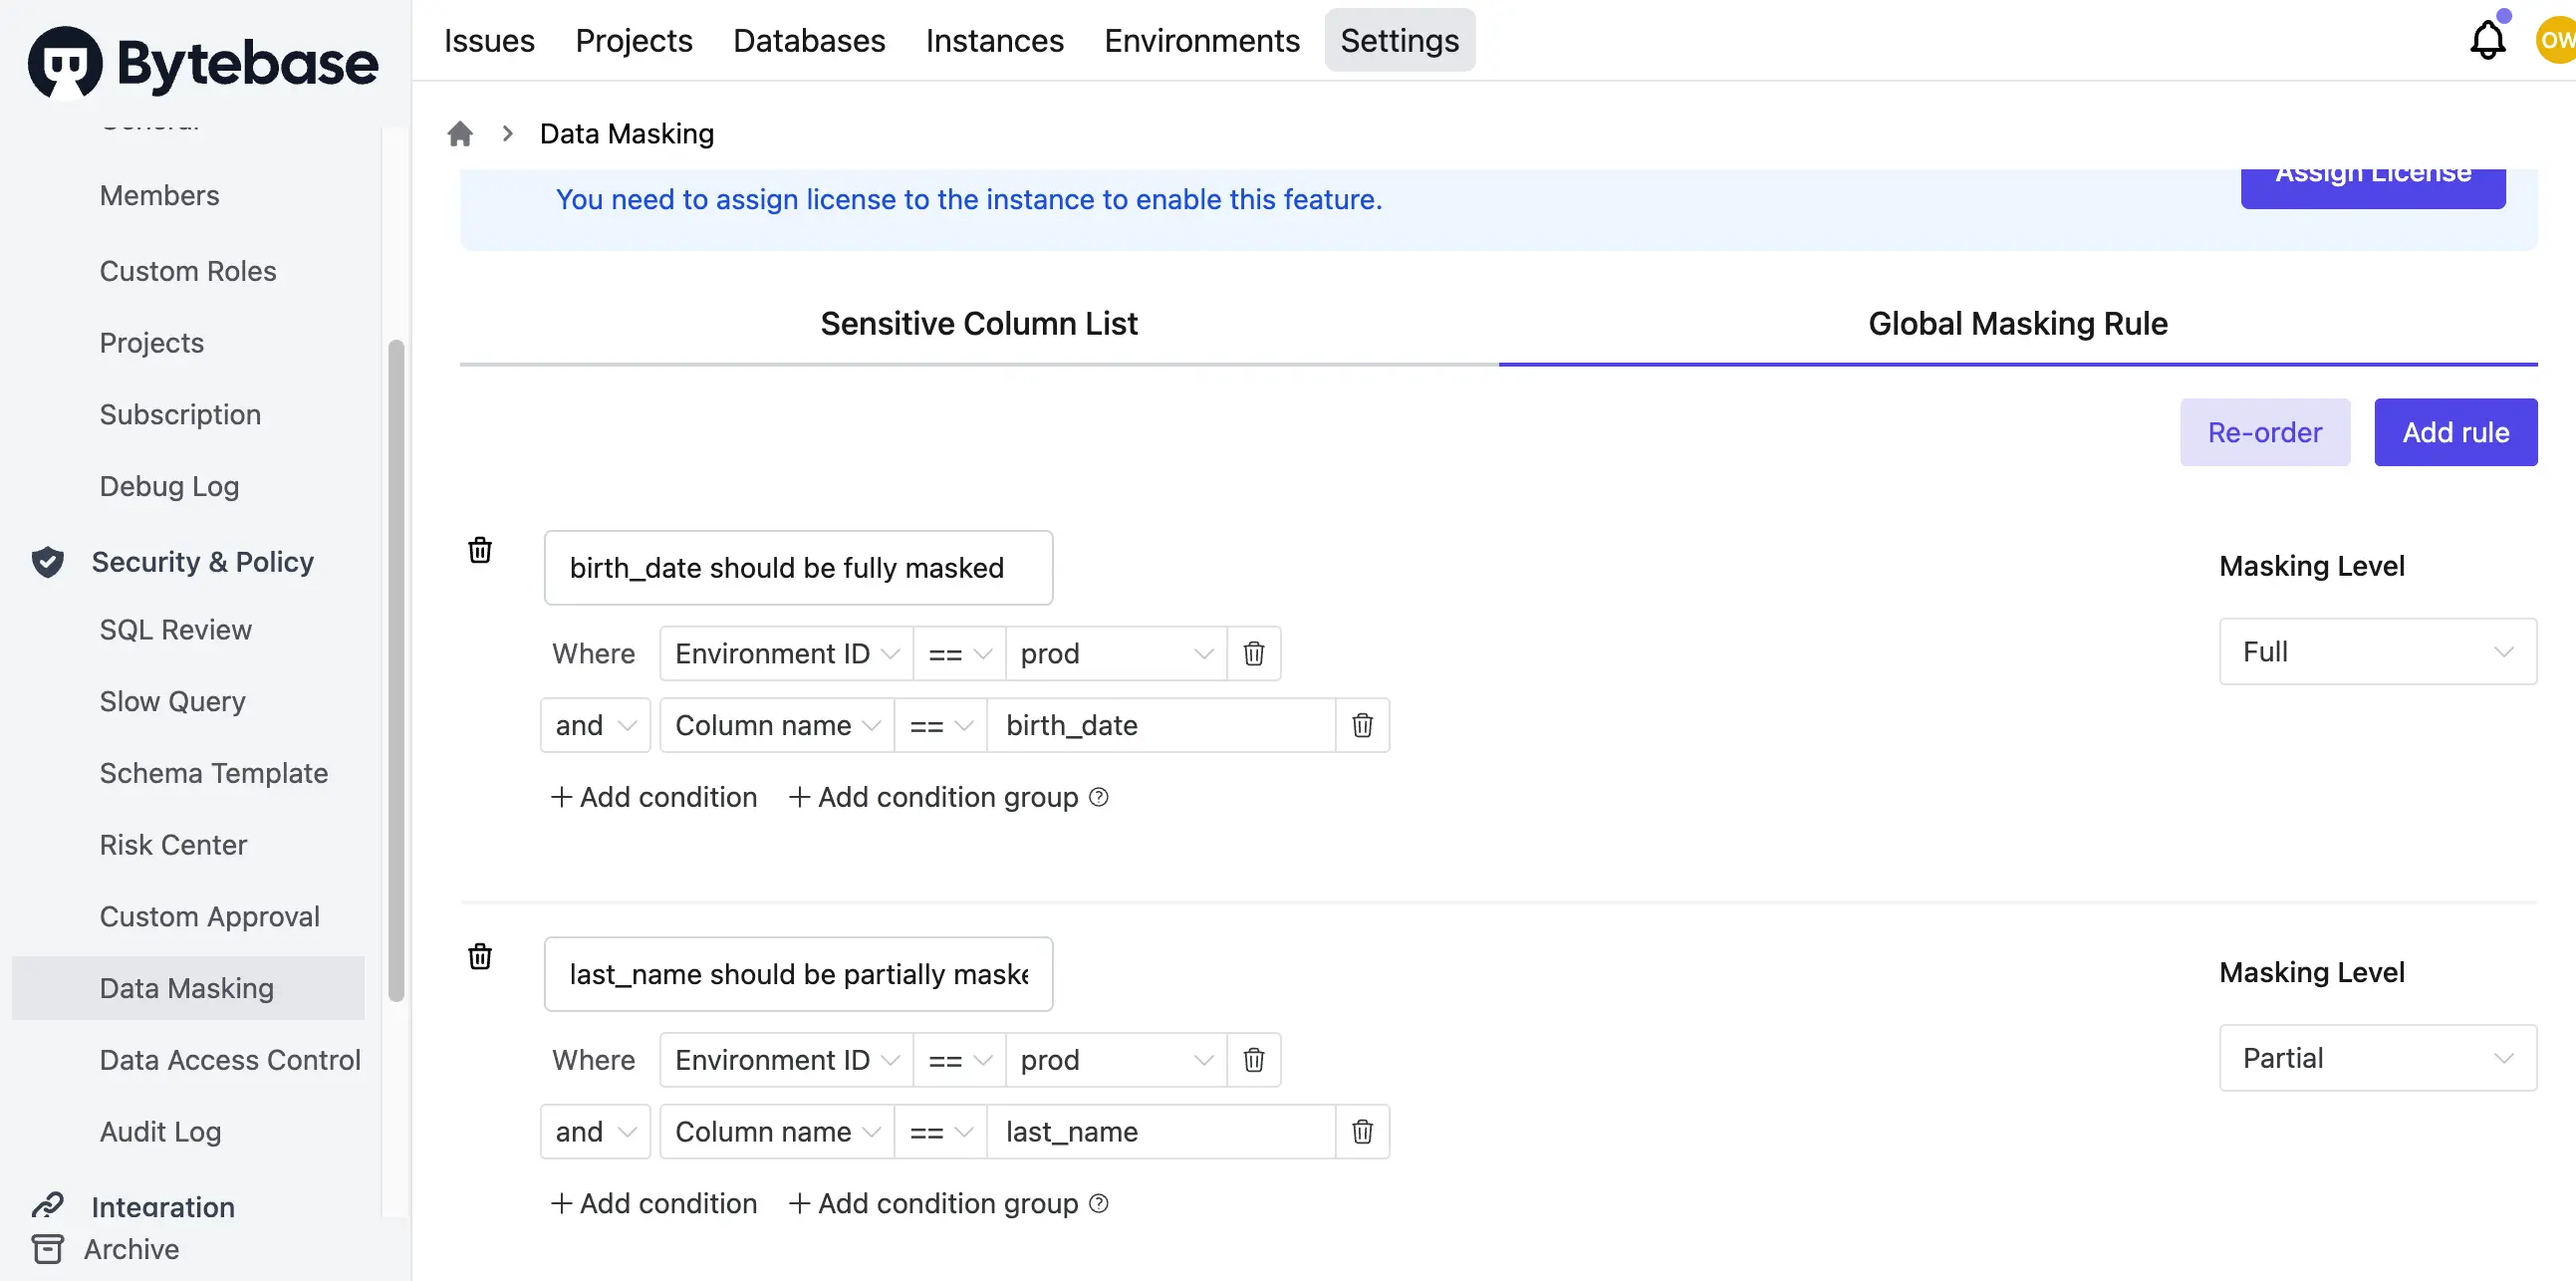
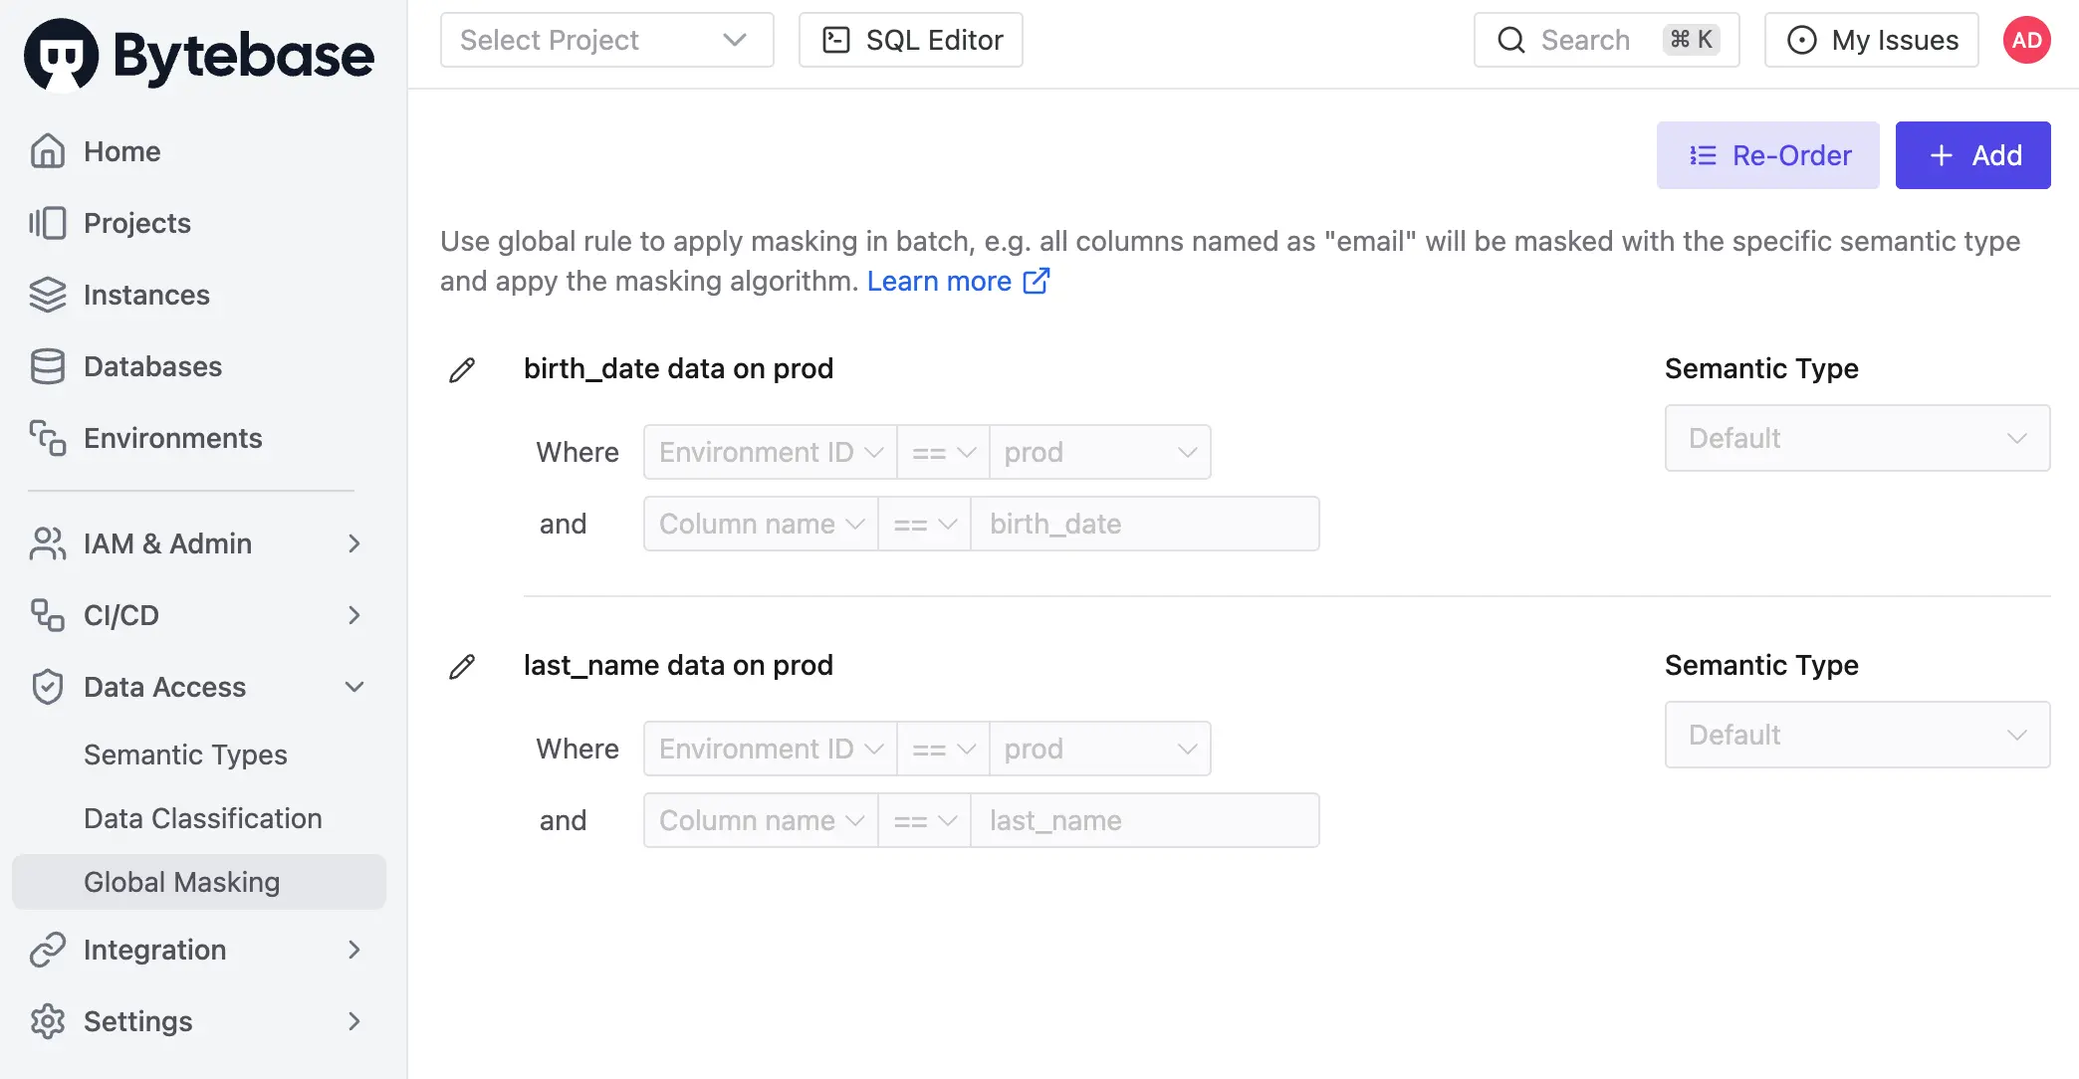
docs: update data masking (#499)

diff --git a/content/docs/security/data-masking/data-classification.md b/content/docs/security/data-masking/data-classification.md
@@ -7,15 +7,15 @@ This allows you to manage masking policy for many columns by controlling only a 
 
 ![overview](/content/docs/security/data-classification/classification-overview.webp)
 
-In the above example, column `first_name` and `last_name` will be applied `Partial Masking`, because:
+In the above example, column `first_name` and `last_name` will be applied `Default Partial Masking`, because:
 
 - Column `first_name` and `last_name` are classified as `Contact Info`.
 - `Contact Info` corresponds to `security level 2`.
-- `Security level 2` applies `Partial Masking`.
+- `Security level 2` applies semantic type `Default Partial Masking`.
 
 ## Step 1 - Define Classification
 
-![definition](/content/docs/security/data-classification/classification-definition.webp)
+![definition](/content/docs/security/data-classification/bb-classification-definition.webp)
 
 You upload a JSON file containing the classification definition. The definition contains 2 sections:
 
@@ -44,54 +44,54 @@ This is a [simple classification](/content/docs/security/data-classification/cla
       "description": ""
     }
   ],
-  "classifications": [
-    {
+  "classification": {
+    "1": {
       "id": "1",
       "title": "Basic",
       "description": ""
     },
-    {
+    "1-1": {
       "id": "1-1",
       "title": "Basic",
       "description": "",
       "levelId": "1"
     },
-    {
+    "1-2": {
       "id": "1-2",
       "title": "Assert",
       "description": "",
       "levelId": "1"
     },
-    {
+    "1-3": {
       "id": "1-3",
       "title": "Contact",
       "description": "",
       "levelId": "2"
     },
-    {
+    "1-4": {
       "id": "1-4",
       "title": "Health",
       "description": "",
       "levelId": "2"
     },
-    {
+    "2": {
       "id": "2",
       "title": "Relationship",
       "description": ""
     },
-    {
+    "2-1": {
       "id": "2-1",
       "title": "Social",
       "description": "",
       "levelId": "1"
     },
-    {
+    "2-2": {
       "id": "2-2",
       "title": "Business",
       "description": "",
       "levelId": "1"
     }
-  ]
+  }
 }
 ```
 
@@ -105,7 +105,7 @@ A comprehensive data classification ([English](/content/docs/security/data-class
 
 ## Step 2 - Configure Global Masking Policy
 
-![global](/content/docs/security/data-classification/classification-global.webp)
+![global](/content/docs/security/data-classification/bb-classification-global-masking.webp)
 
 From the [Global Masking Policy](../global-masking-rule), you can define the masking level for each classification level.
 
@@ -113,15 +113,17 @@ From the [Global Masking Policy](../global-masking-rule), you can define the mas
 
 ### Manual Classification
 
-![classify-manual](/content/docs/security/data-classification/classify-manual.webp)
+If you turn off `Sync classification from comment`, then you can manually set the classification for each column.
+
+![bb-classification-column-masking](/content/docs/security/data-classification/bb-classification-column-masking.webp)
 
 Go to the column definition and set the classification.
 
 ### Comment Classification
 
-![classify-from-comment](/content/docs/security/data-classification/classify-from-comment.webp)
+![bb-classification-definition](/content/docs/security/data-classification/bb-classification-definition.webp)
 
-If you turn on `Sync classification from comment`, then the column classification is derived from the comment.
+If you turn on `Sync classification from comment` (by default it's on), then the column classification is derived from the comment.
 If the column format follows `{classification id}-{comment}` such as `1-4-2-blabla`, then Bytebase will extract
 `1-4-2` as the classification id and assigns the column classification accordingly.
 

diff --git a/content/docs/security/data-masking/semantic-types.md b/content/docs/security/data-masking/semantic-types.md
@@ -4,24 +4,24 @@ title: Semantic Types
 
 ![overview](/content/docs/security/data-masking/bb-semantic-type-overview.webp)
 
-You may define semantic types and apply them to columns of different tables. Columns with the same semantic type will be masked with the same [masking algorithm](/docs/security/data-masking/masking-algorithm). This allows you to manage masking algorithms for many columns by controlling only a small number of semantic types.
+You may define semantic types and apply them to columns of different tables. Columns with the same semantic type will be masked with the same masking algorithm. This allows you to manage masking algorithms for many columns by controlling only a small number of semantic types.
 
-1. Go to **Settings** > **Security & Policy** > **Data Masking**.
-1. Click **Semantic Types**.
-1. Click **Add**, and fill in the name and description. Choose a masking algorithm for full and partial conditions respectively, or you may leave it as `default` which means it will use the system default masking algorithm. Click the checkmark to save.
+1. Go to **Data Access** > **Semantic Types**. You'll see the default semantic type `Default` and `Default Partial`.
+1. Click **Add**, and fill in the name and description.
 
-   ![bb-semantic-types-choose](/content/docs/security/data-masking/bb-semantic-types-choose.webp)
+   ![bb-add-semantic-type](/content/docs/security/data-masking/bb-add-semantic-type.webp)
 
-1. Go to a table detail page. Click pencil icon and choose value for **Semantic Types** and **Masking Level**.
+1. Click the pencil under **Masking Algorithm** column to attach a masking algorithm. Click the checkmark to save.
 
-   ![bb-table-detail](/content/docs/security/data-masking/bb-table-detail.webp)
+   ![bb-add-algorithm](/content/docs/security/data-masking/bb-add-algorithm.webp)
 
-1. Go to **SQL Editor**, run a query and you will see the masked data.
+   _Check [Masking Algorithm](/docs/security/data-masking/masking-algorithm) for more details._
 
-   ![bb-birth-date-full-masking](/content/docs/security/data-masking/bb-birth-date-full-masking.webp)
+1. You may add other semantic types as needed.
 
-1. Go back to table detail page, click pencil to edit the column **Masking Level** and change the masking level to `Partial`.
+   ![bb-semantic-type-list](/content/docs/security/data-masking/bb-semantic-type-list.webp)
 
-1. Go to **SQL Editor**, run a query and you will see the partially masked data.
+There're two ways to apply this semantic type to take effect:
 
-   ![bb-birth-date-partial-masking](/content/docs/security/data-masking/bb-birth-date-partial-masking.webp)
+   - [Global Masking](/docs/security/data-masking/global-masking-rule)
+   - [Column Masking](/docs/security/data-masking/column-masking)

diff --git a/content/docs/security/data-masking/masking-algorithm.md b/content/docs/security/data-masking/masking-algorithm.md
@@ -2,11 +2,7 @@
 title: Masking Algorithm
 ---
 
-You may customize your own data masking algorithm with the help of a predefined masking type.
-
-1. Go to **Settings** > **Security & Policy** > **Data Masking**.
-1. Click **Masking Algorithm**.
-1. Click **Add**, and fill in the name and description. Choose **Masking Type**, and fill in **Substitute** or **Salt** if necessary. Click **Confirm** to save.
+You may customize your data masking algorithm with the help of a predefined masking type while [creating a semantic type](/docs/security/data-masking/semantic-types).
 
 ## Configure Masking Algorithms
 
@@ -14,36 +10,23 @@ You may customize your own data masking algorithm with the help of a predefined 
 
 Mask the entire value and show **Substitute** value.
 
-![bb-masking-algorithm-full](/content/docs/security/data-masking/bb-masking-algorithm-full.webp)
+![bb-algorithm-full](/content/docs/security/data-masking/bb-algorithm-full.webp)
 
 ### Range mask
 
 Mask several characters of a string and replace them with **Substitute** value.
 
-![bb-masking-algorithm-partial](/content/docs/security/data-masking/bb-masking-algorithm-partial.webp)
+![bb-algorithm-range](/content/docs/security/data-masking/bb-algorithm-range.webp)
 
 ### MD5 mask
 
 Use MD5 algorithm together with **Salt** value to hash.
 
-![bb-masking-algorithm-md5](/content/docs/security/data-masking/bb-masking-algorithm-md5.webp)
+![bb-algorithm-md5](/content/docs/security/data-masking/bb-algorithm-md5.webp)
 
 ### Inner / Outer mask
 
 - Inner mask: Mask `123456` to format like `12**56`, `1***56`.
 - Outer mask: Mask `123456` to format like `**34**`, `*23***`.
 
-![bb-masking-algorithm-inner-outer](/content/docs/security/data-masking/bb-masking-algorithm-inner-outer.webp)
-
-## Assign Masking Algorithm
-
-<HintBlock type="info">
-
-If you want to batch apply masking algorithm to many columns, use [Semantic Types](../semantic-types).
-
-</HintBlock>
-
-If you want to overwrite the default masking algorithm, you can go to the column setting and explicitly
-set the masking algorithm for the `full` and `partial` masking levels respectively.
-
-![bb-masking-column-masking-algorithm](/content/docs/security/data-masking/bb-masking-column-masking-algorithm.webp)
+![bb-algorithm-inner](/content/docs/security/data-masking/bb-algorithm-inner.webp)

diff --git a/content/docs/security/data-masking/column-masking.md b/content/docs/security/data-masking/column-masking.md
@@ -2,21 +2,22 @@
 title: Column Masking
 ---
 
-`Workspace Admin` and `DBA` can set table columns as different **Masking Level** to mask the data. This
-takes precedence over the [global masking rule](../global-masking-rule).
+<HintBlock type="info">
 
-1. Go to the table detail page, and click the **pen icon** in the row.
+The [global masking rule](../global-masking-rule) takes precedence over the column masking.
 
-![bb-table-detail-click-masking-pen](/content/docs/security/data-masking/bb-table-detail-click-masking-pen.webp)
+</HintBlock>
 
-2. Choose the **Masking Level** according to your needs.
+In the project level, besides `Workspace Admin` and `DBA`, `Project Owner` can set table columns semantic type to mask the data. However, the [global masking rule](../global-masking-rule) takes precedence over the column masking.
 
-![bb-masking-setting](/content/docs/security/data-masking/bb-masking-setting.webp)
+Go to the **table detail** page, and click the **pen icon** and apply the semantic type.
 
-- **Follow [global masking rules](../global-masking-rule)**
-- **Full**: Mask the original data entirely
-  ![bb-masking-full](/content/docs/security/data-masking/bb-masking-full.webp)
-- **Partial**: Mask the original data partialy
-  ![bb-masking-partial](/content/docs/security/data-masking/bb-masking-partial.webp)
-- **None**: No masking
-  ![bb-masking-none](/content/docs/security/data-masking/bb-masking-none.webp)
+![bb-column-masking](/content/docs/security/data-masking/bb-column-masking.webp)
+
+Combined with [Semantic Types](/docs/security/data-masking/semantic-types), here is the result you will get in **SQL Editor**.
+
+![bb-sql-editor-partial-masking](/content/docs/security/data-masking/bb-sql-editor-partial-masking.webp)
+
+However, if the global masking rule is also applied, the result will be as follows. Because the global masking rule takes precedence over the column masking.
+
+![bb-sql-editor-full-masking](/content/docs/security/data-masking/bb-sql-editor-full-masking.webp)

diff --git a/content/docs/security/data-masking/global-masking-rule.md b/content/docs/security/data-masking/global-masking-rule.md
@@ -4,7 +4,7 @@ title: Global Masking Rule
 
 <HintBlock type="info">
 
-The [column masking](../column-masking) takes precedence over the global masking rule.
+The [Masking Exemption](/docs/security/data-masking/access-unmasked-data) takes precedence over the global masking rule.
 
 </HintBlock>
 
@@ -14,17 +14,16 @@ You may want to batch apply masking settings. e.g.
 - Mask all data for database under a specific project
 - Maks data conditionally according to [Data Classification](../data-classification)
 
-Global masking rule allows you to do this. It's similar to the iptables where you configure an ordered
+Global masking rule along with [Semantic Types](/docs/security/data-masking/semantic-types) allows you to do this. It's similar to the iptables where you configure an ordered
 rule list. The first matching rule will be applied. If no rule matches, the default masking level is `None`.
 
 `Workspace Admin` and `DBA` can set global masking rules to mask the data.
 
-1. Go to **Settings**>**Security & Policy**>**Data Masking**.
-2. Click **Global Masking Rule** tab.
-3. Click **Add rule**. Click **+Add condition** or **+Add condition group**, set **Masking Level** and then click **Confirm**.
+1. Go to **Data Access**>**Global Masking**.
+1. Click **Add**. Click **+Add condition** or **+Add condition group**, set **Semantic Type** and then click **Confirm**.
    ![bb-global-masking](/content/docs/security/data-masking/bb-global-masking.webp)
-4. Repeat step 3 to add more rules.
+1. Repeat to add more rules.
    ![bb-global-masking-2](/content/docs/security/data-masking/bb-global-masking-2.webp)
 
-Here is the result you will get in **SQL Editor**.
-![bb-global-masking-2-preview](/content/docs/security/data-masking/bb-global-masking-2-preview.webp)
+Combined with [Semantic Types](/docs/security/data-masking/semantic-types), here is the result you will get in **SQL Editor**.
+   ![bb-sql-editor-full-masking](/content/docs/security/data-masking/bb-sql-editor-full-masking.webp)

diff --git a/content/docs/security/data-masking/access-unmasked-data.md b/content/docs/security/data-masking/access-unmasked-data.md
@@ -2,23 +2,14 @@
 title: Access Unmasked Data
 ---
 
-`Workspace Admin` and `DBA` can relax the masking levels for the users.
+`Workspace Admin` and `DBA` can unmask the data for the users.
 
-- For the full masked columns, users can be granted to access the unmasked or partial masked data.
-- For the partial masked columns, users can be granted to access the unmasked data.
+1. Go to the project, click **Manage** > **Masking Exemptions**.
+1. Click **Grant Exemption**.
+1. Select the user and the database, and click **Confirm**.
 
-## Grant from the database
+   ![bb-grant-exemption](/content/docs/security/data-masking/bb-grant-exemption.webp)
 
-1. Go to a table detail page, and click the **pen icon** on the masking level column.
-   ![bb-table-detail-click-masking-pen](/content/docs/security/data-masking/bb-table-detail-click-masking-pen.webp)
-2. Choose `Full` as the **Masking Level**. You'll see the data is masked in **SQL Editor**.
-   ![bb-masking-full](/content/docs/security/data-masking/bb-masking-full.webp)
-3. Go back to the column masking setting, click **Grant Access**. Choose `None` as the **Masking Level** and pick a user. Click **Confirm**.
-   ![bb-masking-grant-access](/content/docs/security/data-masking/bb-masking-grant-access.webp)
-4. Log in as the granted user, query or export in **SQL Editor.** You'll see the unmasked data.
+1. The selected user can now access the unmasked data.
 
-## Grant from the project
-
-You can also grant masking access for the databases under a project.
-
-![bb-project-access-masking](/content/docs/security/data-masking/bb-project-access-masking.webp)
+   ![bb-sql-editor-none-masking](/content/docs/security/data-masking/bb-sql-editor-none-masking.webp)

diff --git a/content/docs/_layout.md b/content/docs/_layout.md
@@ -177,19 +177,19 @@ expand_section_list: ['Self-host']
 
 ### [Overview](/security/data-masking/overview)
 
+### [Semantic Types](/security/data-masking/semantic-types)
+
 ### [Global Masking Rule](/security/data-masking/global-masking-rule)
 
 ### [Column Masking](/security/data-masking/column-masking)
 
 ### [Access Unmasked Data](/security/data-masking/access-unmasked-data)
 
-### [Data Classification](/security/data-masking/data-classification)
+### [Export Masked Data](/security/data-masking/export-masked-data)
 
 ### [Masking Algorithm](/security/data-masking/masking-algorithm)
 
-### [Semantic Types](/security/data-masking/semantic-types)
-
-### [Export Masked Data](/security/data-masking/export-masked-data)
+### [Data Classification](/security/data-masking/data-classification)
 
 ---
 
